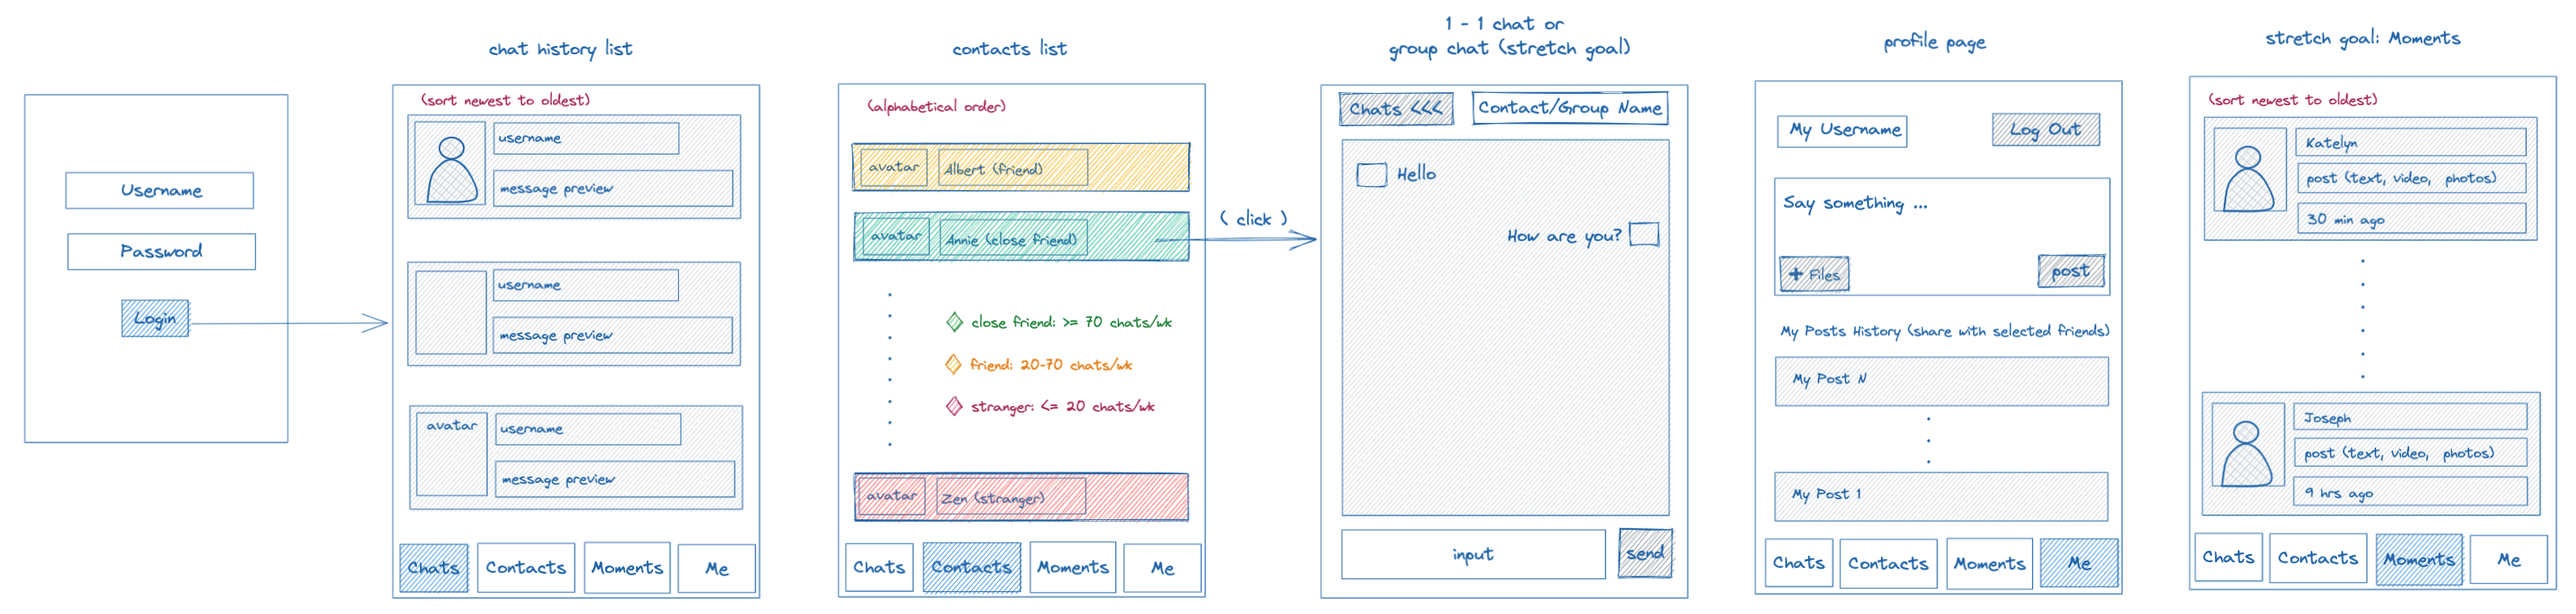
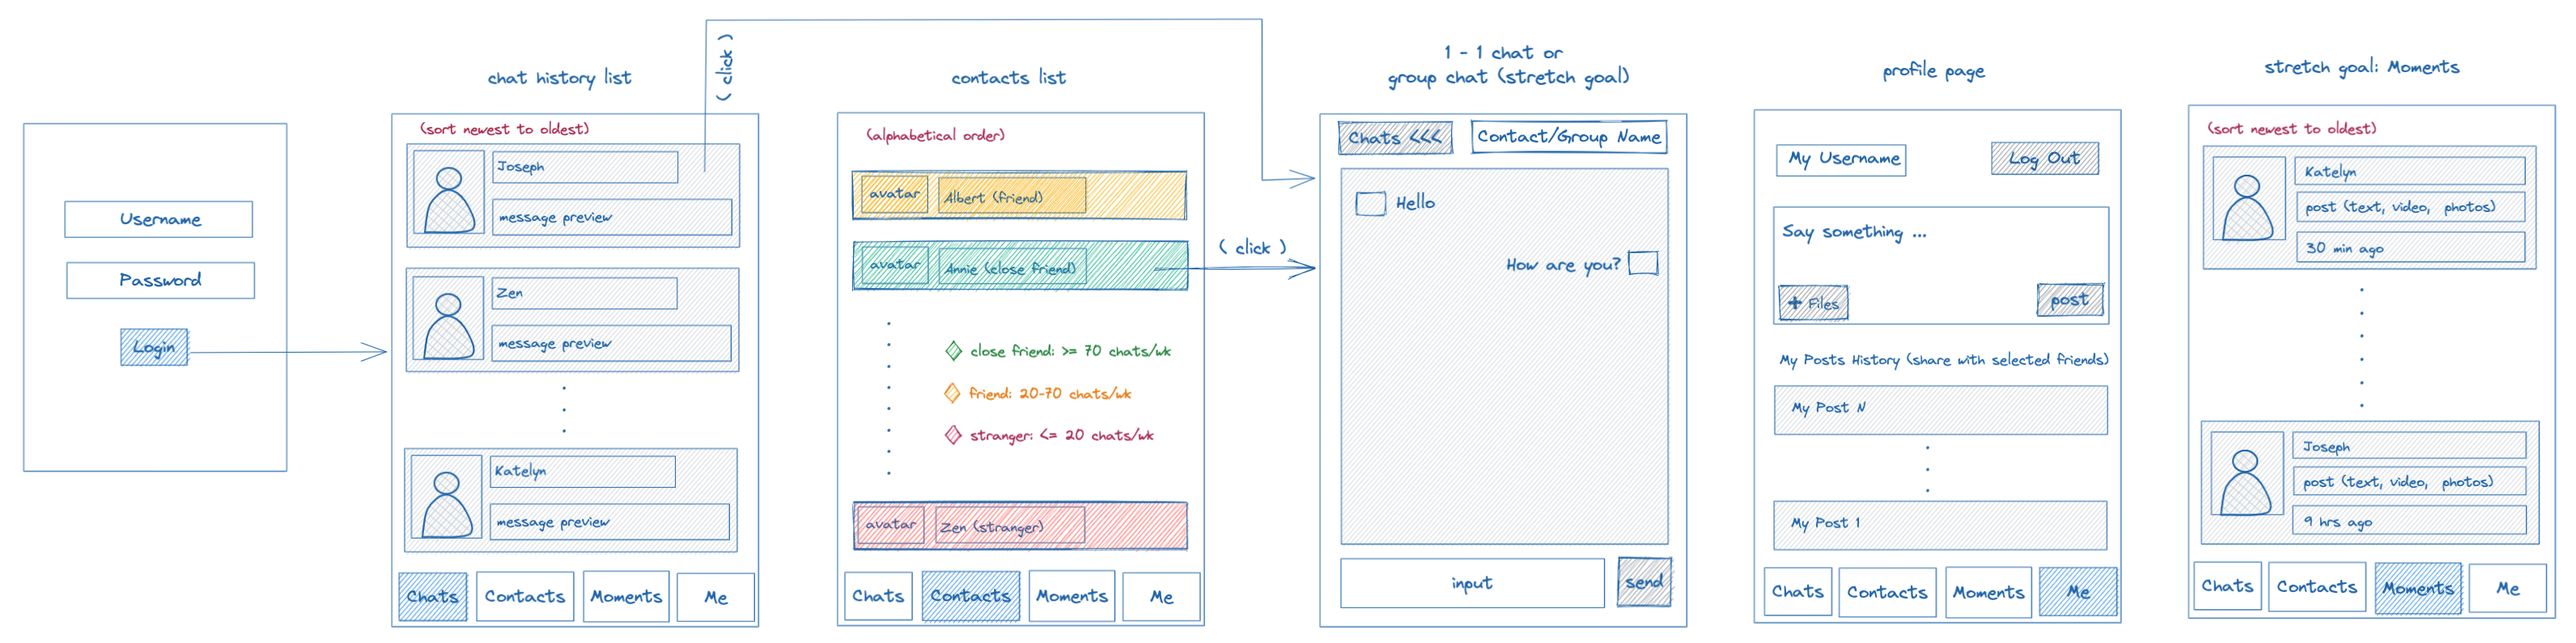
updated api-design.md with conacts list and chats history

diff --git a/docs/api-design.md b/docs/api-design.md
@@ -2,17 +2,56 @@
 
 <br>
 
-### 1. Create a post:
+### 1. Contacts list:
+
+- Endpoint path: /contacts
+- Endpoint method: GET
+- Headers:
+  - Authorization: Bearer token
+- Response: A list of contacts
+- Response shape:
+  ```json
+  {
+    "contacts": [
+      {
+        "avatar_url": string,
+        "contact_name": string,
+      }
+    ]
+  }
+  ```
+
+<br>
+
+### 2. Chats history:
+
+- Endpoint path: /chats
+- Endpoint method: GET
+- Headers:
+  - Authorization: Bearer token
+- Response: chats history
+- Response shape:
+  ```json
+  {
+    "chats": [
+      {
+        "avatar_url": string,
+        "contact_name": string,
+        "msg_preview": string,
+      }
+    ]
+  }
+  ```
+
+<br>
+
+### 3. Create a post:
 
 - Endpoint path: /Moments
 - Endpoint method: POST
-
 - Headers:
-
   - Authorization: Bearer token
-
 - Request body:
-
   ```json
   {
     "post": [
@@ -22,12 +61,11 @@
         "post_text": string,
         "image_url": string,
         "video_url": string,
-        "time_stamp": string,  <!-- "2022-10-01" ?????? -->
+        "time_stamp": string,  <!-- "2022-10-01" ??????? -->
       }
     ]
   }
   ```
-
 - Response: An indication of success or failure
 - Response shape:
   ```json
@@ -39,18 +77,14 @@
 
 <br>
 
-### 2. [stretch goal] Moments - list of posts:
+### 4. [stretch goal] Moments - list of posts:
 
 - Endpoint path: /moments
 - Endpoint method: GET
-
 - Headers:
-
   - Authorization: Bearer token
-
 - Response: A list of posts
 - Response shape:
-
   ```json
   {
     "moments": [
@@ -61,7 +95,35 @@
         "image_url": string,
         "video_url": string,
         "time_stamp": string,
-        "likes": number
+        "likes": number  <!-- ??????? -->
+      }
+    ]
+  }
+  ```
+
+<br>
+
+### 5. Profile page - create post & post history:
+
+- Endpoint path: /user <!-- ??????? -->
+- Endpoint method: GET
+- Headers:
+  - Authorization: Bearer token
+- Response: the user detail
+- Response shape:
+  ```json
+  {
+    "user": [
+      {
+        "username": string,
+        "log_out": button,  <!-- ??????? -->
+        "create_post": {
+          "post_content": text,
+          "image_url": string,
+          "video_url": string,
+          "time_stamp": string,  <!-- "2022-10-01 14:30:00" ??????? -->
+        },
+        "posts_history": dictionary,  <!-- ??????? -->
       }
     ]
   }
@@ -79,15 +141,11 @@
 
 - Endpoint path: /token
 - Endpoint method: POST
-
 - Request shape (form):
-
   - username: string
   - password: string
-
 - Response: Account information and a token
 - Response shape (JSON):
-
   ```json
   {
     "account": {
@@ -104,14 +162,10 @@
 
 - Endpoint path: /token
 - Endpoint method: DELETE
-
 - Headers:
-
   - Authorization: Bearer token
-
 - Response: Always true
 - Response shape (JSON):
-
   ```json
   true
   ```
@@ -140,20 +194,14 @@
 - Endpoint path: «path to use»
 - Endpoint method: «HTTP method»
 - Query parameters:
-
   - «name»: «purpose»
-
 - Headers:
-
   - Authorization: Bearer token
-
 - Request shape (JSON):
-
   ```json
   «JSON-looking thing that has the
   keys and types in it»
   ```
-
 - Response: «Human-readable description
   of response»
 - Response shape (JSON):
